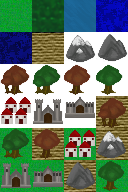
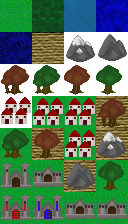
Add a brand new map

diff --git a/game/game-state-managers/battleState.js b/game/game-state-managers/battleState.js
@@ -25,7 +25,7 @@ var battleState = {
         _playSound('battle');
 
         var tilemap = game.add.tilemap(this.mapKey, 32, 32, 8, 12);
-        var tileset = tilemap.addTilesetImage("FW_Set", "tilesheet");
+        var tileset = tilemap.addTilesetImage("fantasy_wars_tilesheet", "tilesheet");
         var mainMap = tilemap.createLayer("Tile Layer 1");
         map = new Map();
 
@@ -66,10 +66,10 @@ var battleState = {
             var defense = parseFloat(battle.currentSelectedTile.protection);
             currentTileName.setText("Name: " + battle.currentSelectedTile.name );
             currentTileDefense.setText("Defense: " + (defense * 100) + "%");
-            currentTileInfMov.setText("Infantry Cost: "  + battle.currentSelectedTile.movCostInf );
-            currentTileCavMov.setText("Cavalry Cost: "  + battle.currentSelectedTile.movCostCav );
-            currentTileArtMov.setText("Artillery Cost: "  + battle.currentSelectedTile.movCostArt );
-            currentTileFlyMov.setText("Fly Cost: "  + battle.currentSelectedTile.movCostFly );
+            currentTileInfMov.setText("Inf Move Cost: "  + battle.currentSelectedTile.movCostInf );
+            currentTileCavMov.setText("Cav Move Cost: "  + battle.currentSelectedTile.movCostCav );
+            currentTileArtMov.setText("Art Move Cost: "  + battle.currentSelectedTile.movCostArt );
+            currentTileFlyMov.setText("Fly Move Cost: "  + battle.currentSelectedTile.movCostFly );
         }
     },
 
@@ -104,19 +104,13 @@ function _playSound(audioKey) {
 };
 
 function _initializeArmyPlayer1() {
-  return [new Grenadier(new Pos(2, 2), 1),
-        new Warrior(new Pos(1, 3), 1),
-        new Mech(new Pos(1, 2), 1),
-        new Mortar(new Pos(1, 1), 1),
-        new Biplane(new Pos(5, 1), 1)];
+  return [new Grenadier(new Pos(5, 7), 1),
+        new Warrior(new Pos(4, 7), 1)];
 };
 
 function _initializeArmyPlayer2() {
-  return [new Grenadier(new Pos(5, 10), 2),
-        new MotorBike(new Pos(0, 10), 2),
-        new MotorBike(new Pos(3, 11), 2),
-        new IronGuard(new Pos(6, 10), 2),
-        new Cannon(new Pos(6, 11), 2),];
+  return [new Grenadier(new Pos(12, 7), 2),
+        new Warrior(new Pos(13, 7), 2)];
 };
 
 function _setupUIElements(battle) {
@@ -178,10 +172,10 @@ function _createTerrainMenu(battle) {
 
     currentTileName = game.add.text(596, 20, "Name:  ", terrainStatsStyle);
     currentTileDefense = game.add.text(596, 45, "Defense:  ", terrainStatsStyle);
-    currentTileInfMov = game.add.text(596, 72, "Infantry Cost:  ", terrainStatsStyle);
-    currentTileCavMov = game.add.text(596, 99, "Cavalry Cost:  ", terrainStatsStyle);
-    currentTileArtMov = game.add.text(596, 127, "Artillery Cost:  ", terrainStatsStyle);
-    currentTileFlyMov = game.add.text(596, 153, "Fly Cost:  ", terrainStatsStyle);
+    currentTileInfMov = game.add.text(596, 72, "Inf Move Cost:  ", terrainStatsStyle);
+    currentTileCavMov = game.add.text(596, 99, "Cav Move Cost:  ", terrainStatsStyle);
+    currentTileArtMov = game.add.text(596, 127, "Art Move Cost:  ", terrainStatsStyle);
+    currentTileFlyMov = game.add.text(596, 153, "Fly Move Cost:  ", terrainStatsStyle);
 };
 
 function _createEndTurnButton(battle, userInterfaceText) {

diff --git a/game/battle/battle.js b/game/battle/battle.js
@@ -13,6 +13,7 @@ function Battle(map, players) {
   this.currentPlayer = 1;
   this.buildScreen = null;
   this.unitSpriteDisplay = null;
+  this.map.remakeAllFlags();
 };
 
 Battle.prototype.update = function() {
@@ -358,7 +359,7 @@ Battle.prototype._clickListenerTurnStateBuildUnitHelper = function(mousePos) {
 
 Battle.prototype.clickOnBarracks = function(mousePos) {
   if (this.currentSelectedTile) {
-    if (this.currentSelectedTile.name === "barracks" && this.currentSelectedTile.owner === this.currentPlayer) {
+    if (this.currentSelectedTile.name === "barracks" && parseInt(this.currentSelectedTile.owner) === this.currentPlayer) {
       this.turnState = "buildUnit";
       this.buildScreen = new BuildScreen(this.getCurrentPlayer().army.armyList, this, mousePos);
     }
@@ -429,16 +430,15 @@ Battle.prototype.updateUnitSpriteDisplay = function() {
 }
 
 Battle.prototype.checkVictoryConditions = function() {
-  return false;
-  // if (this.checkLosingConditionsforPlayer(this.players[0], 0) === true) {
-  //     game.state.start("victoryState", true, false, "Player 2");
-  // }
-  // else if (this.checkLosingConditionsforPlayer(this.players[1], 1) === true) {
-  //     game.state.start("victoryState", true, false, "Player 1");
-  // }
-  // else {
-  //   return false;
-  // }
+  if (this.checkLosingConditionsforPlayer(this.players[0], 1) === true) {
+      game.state.start("victoryState", true, false, "Player 2");
+  }
+  else if (this.checkLosingConditionsforPlayer(this.players[1], 2) === true) {
+      game.state.start("victoryState", true, false, "Player 1");
+  }
+  else {
+    return false;
+  }
 }
 
 Battle.prototype.checkLosingConditionsforPlayer = function(playerObj, playerNum) {
@@ -448,10 +448,11 @@ Battle.prototype.checkLosingConditionsforPlayer = function(playerObj, playerNum)
 }
 
 Battle.prototype.didPlayerLoseHQ = function(player) {
-  var hqCaptured = false;
+  var hqCaptured = true;
   this.map.getAllBuildingsForPlayer(player).forEach(function(building) {
+    console.log(building.name);
     if (building.name === "castle") {
-      hqCaptured = true;
+      hqCaptured = false;
     }
   });
   return hqCaptured;

diff --git a/game/game-state-managers/victoryState.js b/game/game-state-managers/victoryState.js
@@ -2,14 +2,14 @@ var victoryState = {
     winner: null,
 
     init: function(player) {
-        winner = player;
-      
+        this.winner = player;
+
     },
 
 	create: function() {
         var victoryStyle = {font: "bold 48pt Herculanum", align: "center", fill: "red"};
         var parchment = this.add.image(0, 0, 'parchment');
-        var victoryText = game.add.text(150, 220, "Player " + this.winner + " wins!" , victoryStyle);
+        var victoryText = game.add.text(150, 220, this.winner + " wins!" , victoryStyle);
         game.add.audio('victory').play();
 	},
 

diff --git a/game/battle/map/map.js b/game/battle/map/map.js
@@ -59,14 +59,14 @@ Map.prototype.getAllBuildingsForPlayer = function(player) {
 Map.prototype.remakeAllFlags = function() {
   flags.removeChildren();
   this.getAllBuildings(true).forEach(function(building) {
-    if (building[0].owner === 1) {
+    if (parseInt(building[0].owner) === 1) {
       var sprite = "red_flag";
     }
     else {
       var sprite = "blue_flag";
     };
 
-    if(building[0].owner !== "0") {
+    if(parseInt(building[0].owner) !== 0) {
       var flag = game.add.sprite(building[1] * TILESCALE, building[2] * TILESCALE + 4, sprite);
     }
   });

diff --git a/game/game-state-managers/loadState.js b/game/game-state-managers/loadState.js
@@ -51,6 +51,7 @@ function _loadSpritesheets() {
       game.load.spritesheet("armySelectionButtons", "game/assets/menus/buttons/armySelectionButtons.png", 224, 71);
 
       game.load.tilemap("testmap", "game/assets/maps/FW_map_1.json", null, Phaser.Tilemap.TILED_JSON );
+      game.load.tilemap("oceanPass", "game/assets/maps/Ocean_Pass.json", null, Phaser.Tilemap.TILED_JSON );
       game.load.image("tilesheet", "game/assets/maps/fantasy_wars_tilesheet.png");
 
       game.load.spritesheet("sprDwarves1", "game/assets/spritesheets/dwarf_units.png", 32, 32);

diff --git a/game/game-state-managers/mapSelectState.js b/game/game-state-managers/mapSelectState.js
@@ -17,7 +17,7 @@ var mapSelectState = {
 
     // first map
     // args = x, y, spritekey(map thumbnail), targetState, tilemap name, army name, audio
-    var mapThumb = new MenuButton(20, 70, 'map1', "armySelectState", "testmap", "army", "flash");
+    var mapThumb = new MenuButton(20, 70, 'map1', "armySelectState", "oceanPass", "army", "flash");
     var mapThumbText = this.add.text(20, 260, "Two Rivers", {font: "16pt Herculanum", align: "left"});
     // second map
 
